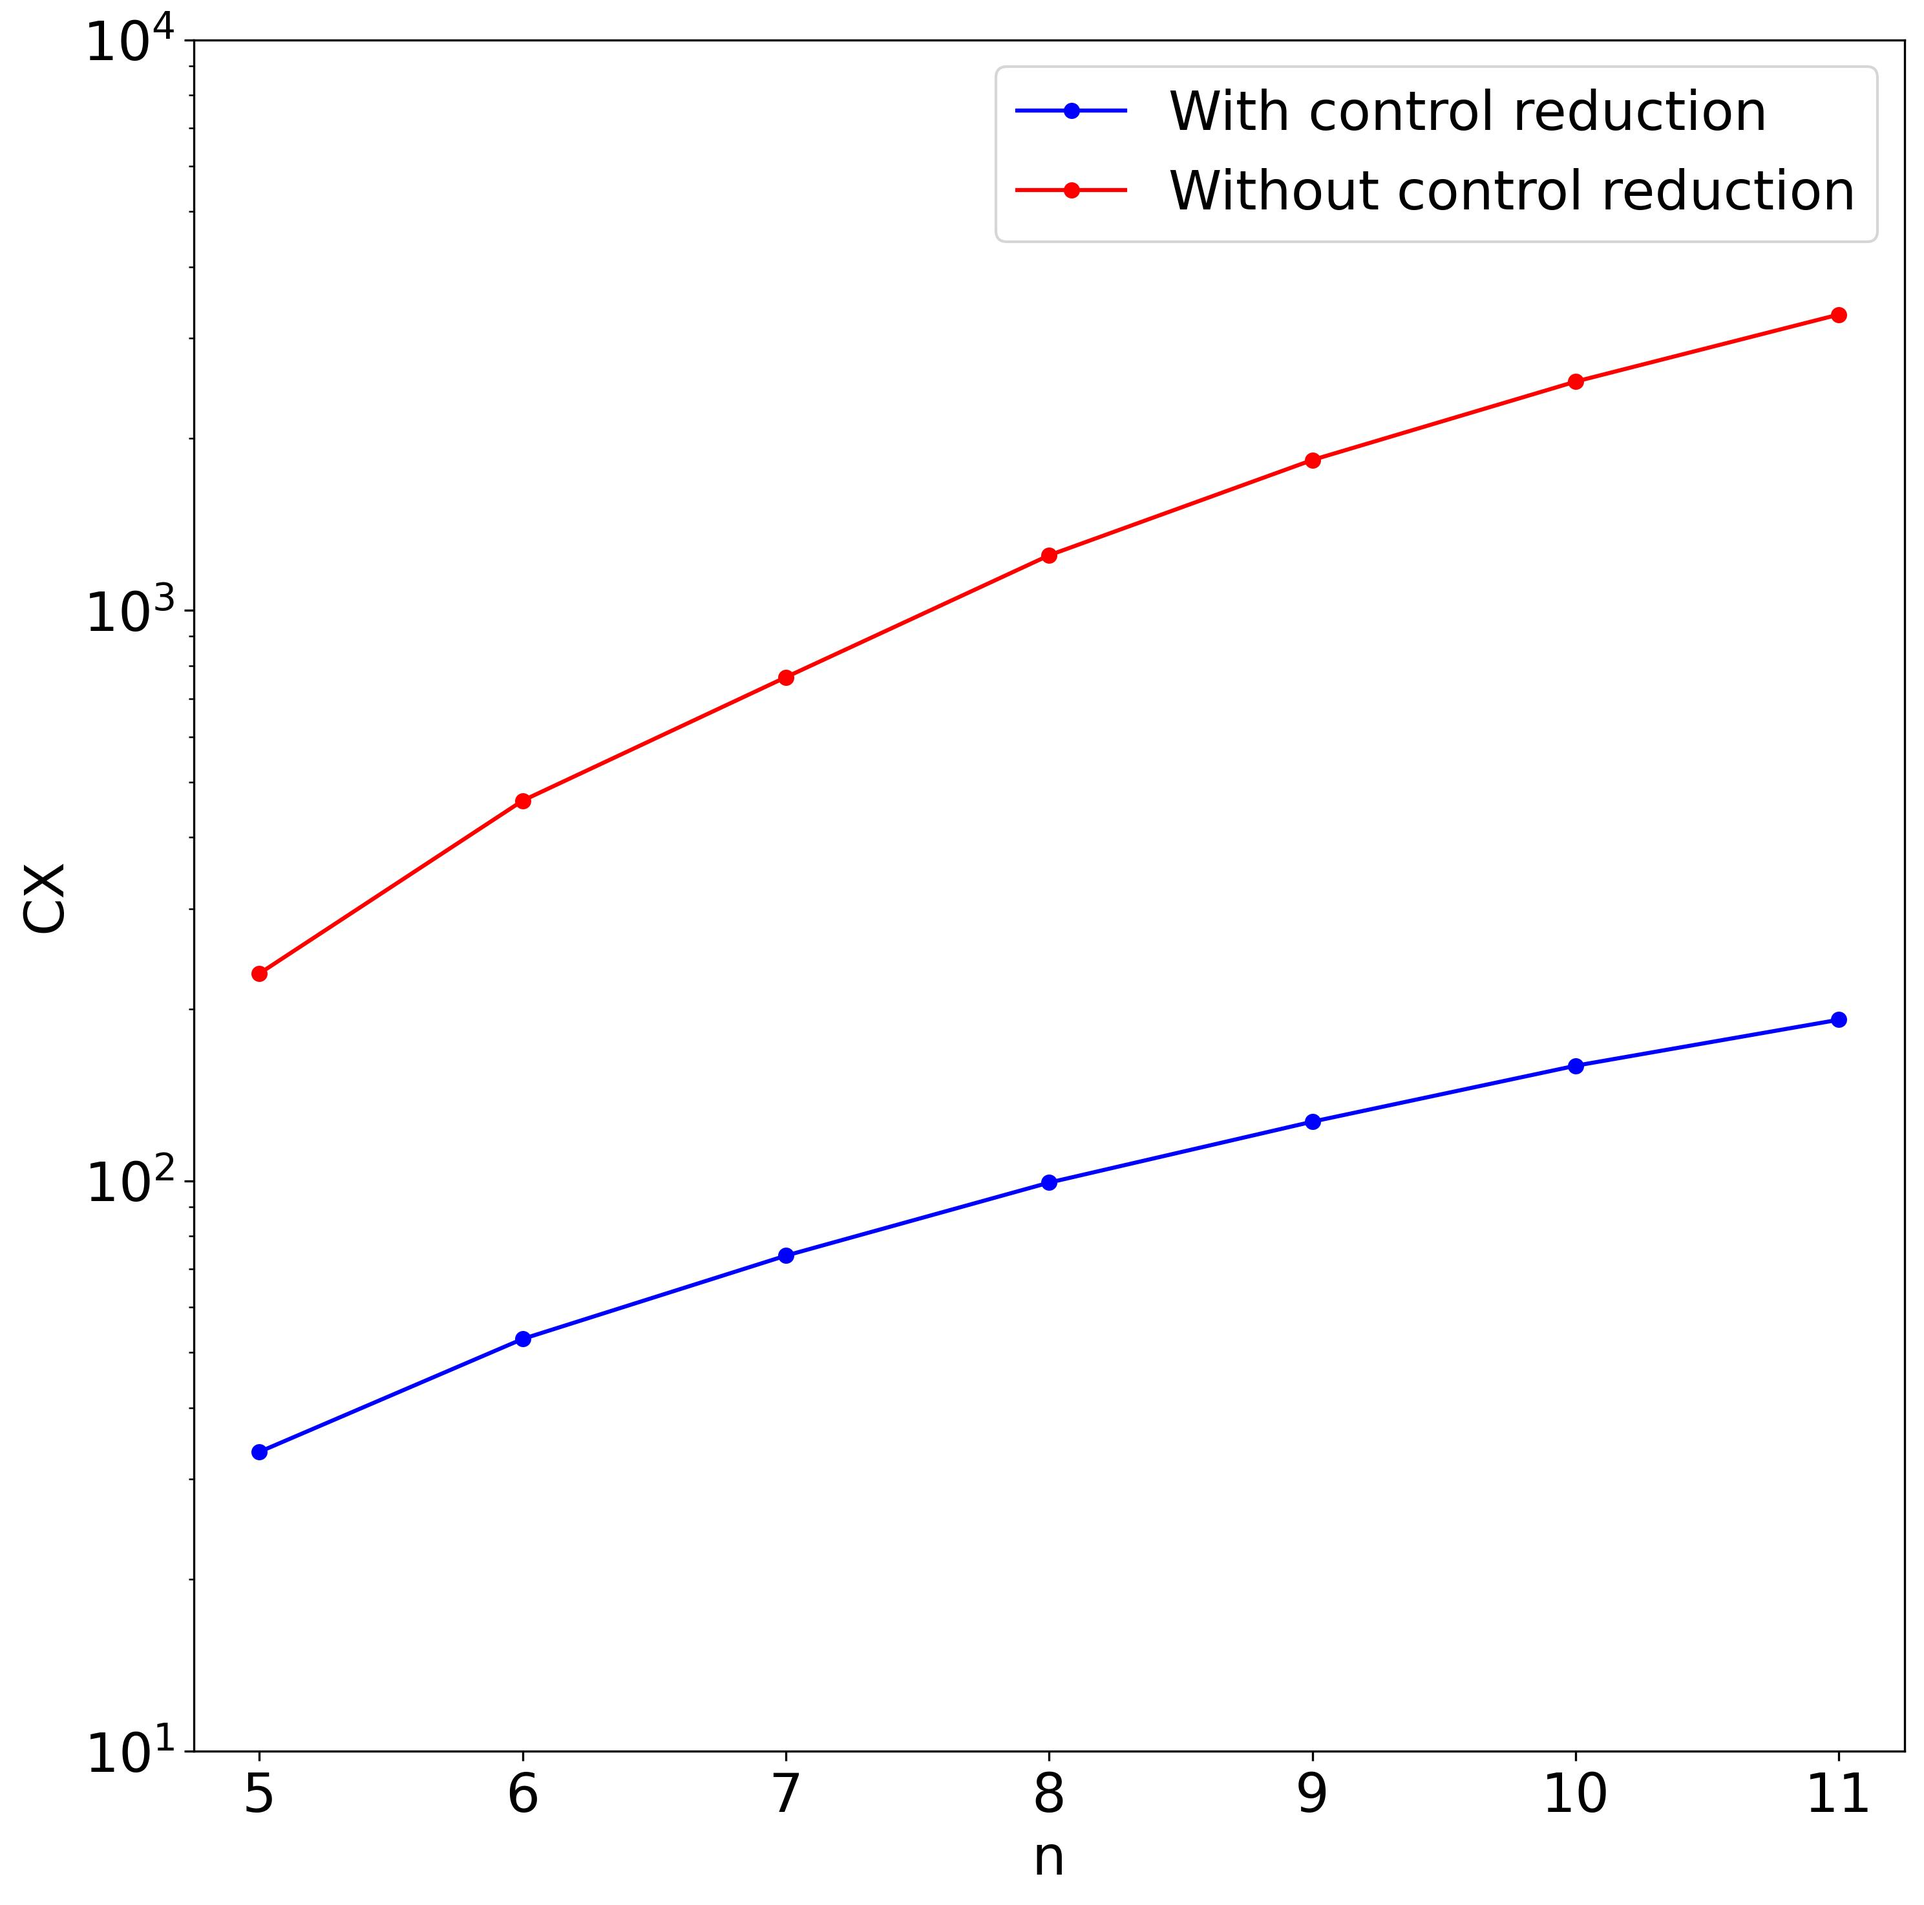
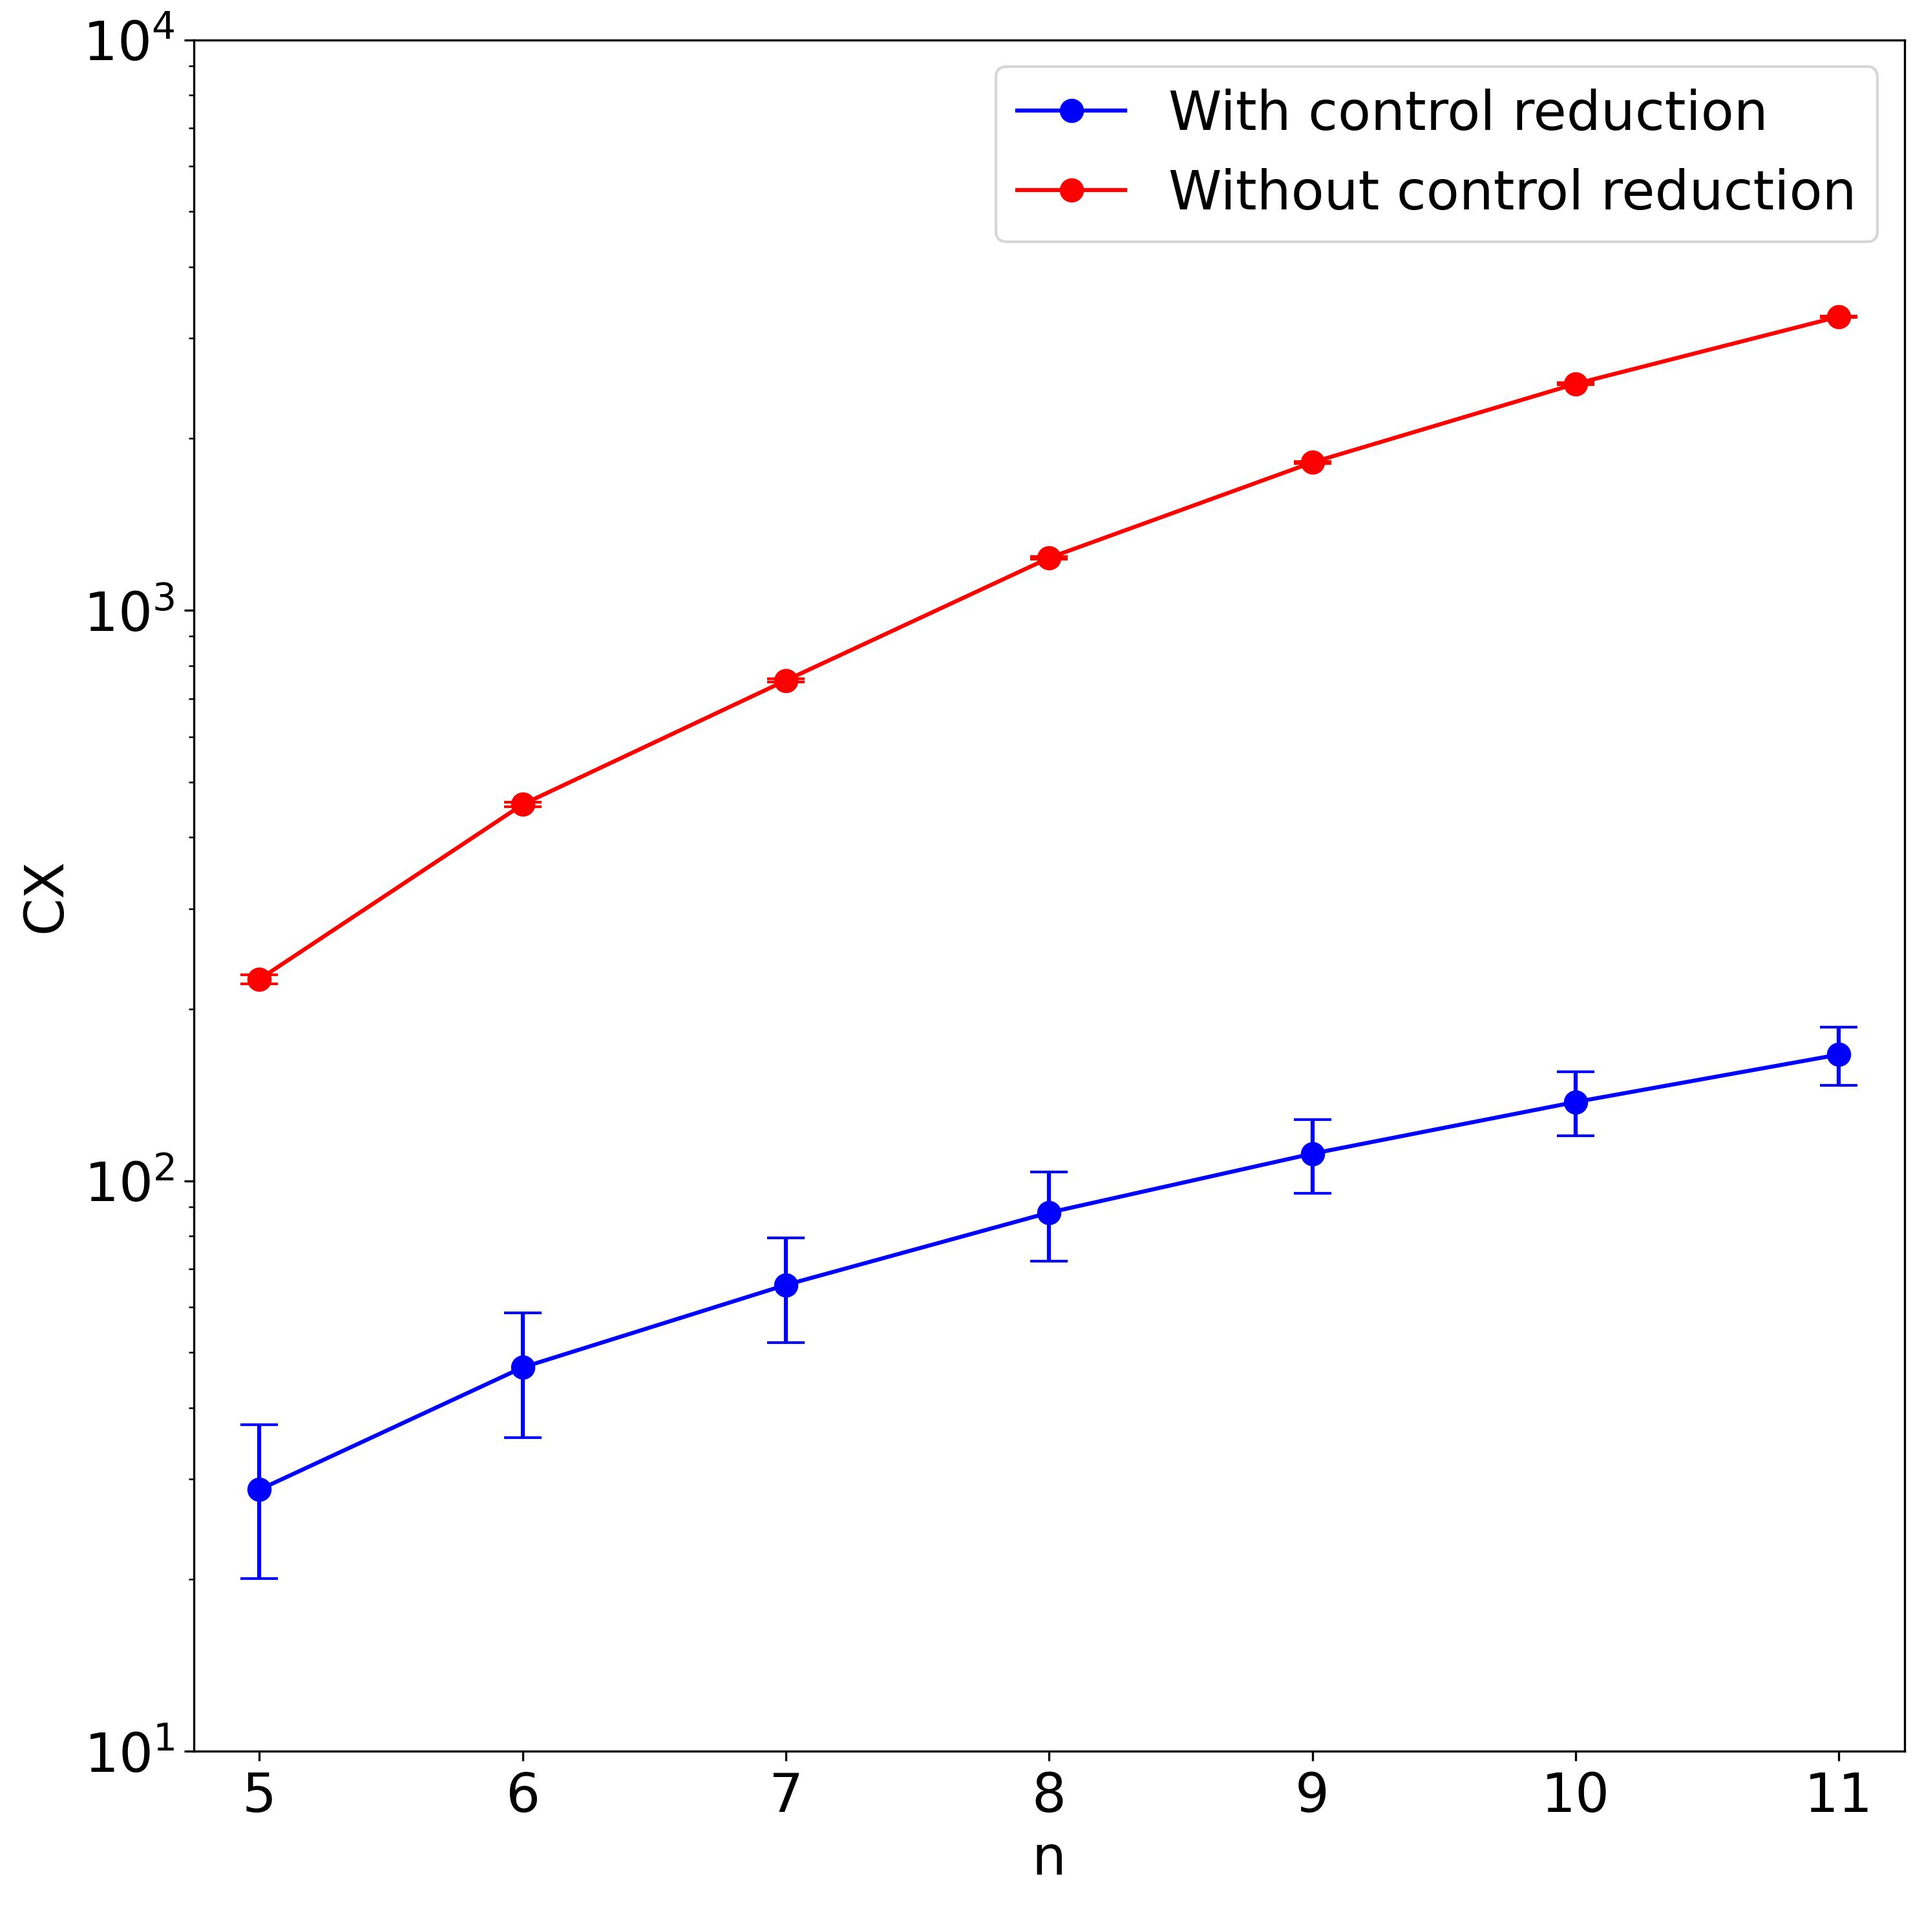
plots now include error bars

diff --git a/plots/general.py b/plots/general.py
@@ -71,11 +71,12 @@ def assign_distinct_colors(lines: list[Line]):
         lines[i].color = colors[i]
 
 
-def plot_general(lines: list[Line], axis_labels: tuple[str | None, str | None] = None, tick_multiples: tuple[float | None, float | None] = None,
+def plot_general(lines: list[Line], all_std_devs: list[np.array], axis_labels: tuple[str | None, str | None] = None, tick_multiples: tuple[float | None, float | None] = None,
                  boundaries: tuple[float | None, float | None, float | None, float | None] = None, font_size: int = 20, legend_loc: str = 'best', figure_id: int = None, **kwargs):
     """
     Plots specified list of lines.
     :param lines: List of lines.
+    :param all_std_devs: List of std. dev.
     :param axis_labels: Labels for x and y axes.
     :param tick_multiples: Base multiples for ticks along x and y axes.
     :param boundaries: x min, x max, y min, y max floats defining plot boundaries.
@@ -92,10 +93,14 @@ def plot_general(lines: list[Line], axis_labels: tuple[str | None, str | None] =
         plt.figure(figure_id)
 
     plt.rcParams.update({'font.size': font_size})
-    for line in lines:
-        plt.plot(line.xs, line.ys, color=line.color, marker=line.marker, linestyle=line.style, markersize=marker_sizes[line.marker], label=line.label)
+
+    for line, std_dev in zip(lines, all_std_devs):
+        plt.errorbar(line.xs, line.ys, yerr=std_dev, color=line.color, marker=line.marker, linestyle=line.style, 
+                     markersize=marker_sizes[line.marker], label=line.label, capsize=7.0) #capsize is the size of error bar caps
+        handles, labels=plt.gca().get_legend_handles_labels()
+        handles=[h[0] for h in handles] #strips the error bars from the legend.
         if line.label != '_nolabel_':
-            plt.legend(loc=legend_loc, draggable=True)
+            plt.legend(handles, labels, loc=legend_loc, draggable=True)
 
     if axis_labels is not None:
         if axis_labels[0] is not None:

diff --git a/plots/quantum_walks.py b/plots/quantum_walks.py
@@ -5,19 +5,23 @@ import matplotlib.pyplot as plt
 import numpy as np
 import pandas as pd
 from matplotlib.lines import Line2D
-
+import sys
+sys.path.append("../")
 from plots.general import Line, plot_general, save_figure
 
 
 def plot_cx_count_vs_num_qubits_line(method: str, num_qubits: Sequence[int], num_amplitudes: Sequence[int], color_ind: int, marker_ind: int, label: str, figure_id: int):
     data = []
+    data_std_dev=[]
     for n, m in zip(num_qubits, num_amplitudes):
         data_path = f"../data/qubits_{n}/m_{m}/cx_counts.csv"
         df = pd.read_csv(data_path)
-        data.append(np.mean(df[method]))
+        column_dat=df[method]
+        data.append(np.mean(column_dat))
+        data_std_dev.append(np.std(column_dat))
 
     line = Line(num_qubits, data, color=color_ind, marker=marker_ind, label=label)
-    plot_general([line], ("n", "CX"), boundaries=(4.75, 11.25, 10, 10 ** 4), figure_id=figure_id)
+    plot_general([line], [data_std_dev], ("n", "CX"), boundaries=(4.75, 11.25, 10, 10 ** 4), figure_id=figure_id)
     plt.yscale("log")
 
 
